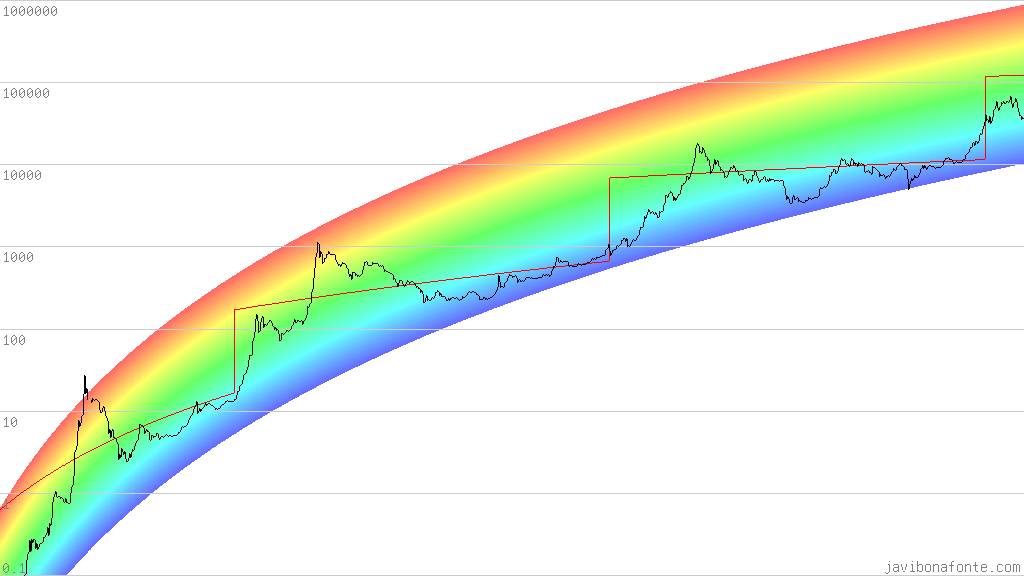
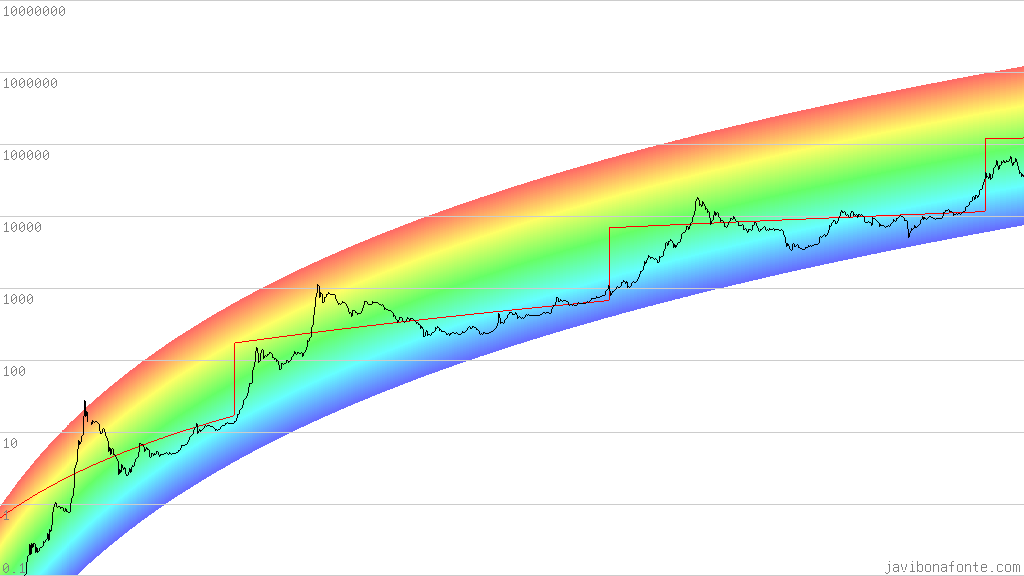
Implemented way to select chart parameters easily

diff --git a/src/btc-charts.c b/src/btc-charts.c
@@ -4,6 +4,8 @@
  * Javi Bonafonte
  *
  * TODO
+ *  - when skipping days of price, paint the average of skipped days
+ *  - separate chart code from csv file code
  *  - use bitcoinity data for stock to flow
  */
 
@@ -28,10 +30,23 @@
 #define DAYS_FROM_GEN 554 // Days from Genesis Block to first day in file
                           // Genesis Block was on 2009-01-09
 
+// Struct with BTC price for a date (represents one row of the CSV file)
 struct row {
     char date[STR_LEN];
     float price;
 };
+
+// Struct with chart configuration parameters
+struct chart_cfg {
+    int w, h; // width and height of chart image
+    int paint_price, paint_trololo, paint_sf_model; // things to paint (0/1)
+    float min_x, max_x, min_y, max_y; // x values and y values to paint
+                                      // x = days, y = price
+    int scale; // scale of the y axis (linear or logarithmic)
+    float axis_step; // step of change between y axis lines
+};
+
+// ------------------------------------------------------------------------
 
 /**
  * Returns number of lines in 'fp'.
@@ -109,6 +124,49 @@ int get_max_price (struct row *rows, int num_rows) {
     return max_price;
 }
 
+// ------------------------------------------------------------------------
+
+/**
+ * Generates and returns the chart configuration.
+ */
+struct chart_cfg get_chart_cfg (int num_days_in_file, int scale,
+        int paint_price, int paint_trololo, int paint_sf_model,
+        int days_to_predict) {
+
+    struct chart_cfg cfg;
+
+    cfg.w = WIDTH;
+    cfg.h = HEIGHT;
+
+    cfg.paint_price = paint_price;
+    cfg.paint_trololo = paint_trololo;
+    cfg.paint_sf_model = paint_sf_model;
+
+    cfg.scale = scale;
+
+    switch (scale) {
+
+        case linear:
+            cfg.min_y = 0;
+            cfg.max_y = 65000;
+            cfg.axis_step = 10000;
+            break;
+
+        case logarithmic:
+            cfg.min_y = 0.1;
+            cfg.max_y = 10000000;
+            cfg.axis_step = 10;
+            break;
+    }
+
+    cfg.min_x = DAYS_FROM_GEN;
+    cfg.max_x = DAYS_FROM_GEN + num_days_in_file + days_to_predict;
+
+    return cfg;
+}
+
+// ------------------------------------------------------------------------
+
 /**
  *
  */
@@ -147,24 +205,24 @@ void paint_function_column (int *img, int x, int j, int prev_j,
 /**
  *
  */
-void paint_trololo (int *img, float min_x, float max_x, float min_y,
-        float max_y, int scale) {
+void paint_trololo (int *img, struct chart_cfg cfg) {
 
-    min_y = apply_scale (scale, min_y);
-    max_y = apply_scale (scale, max_y);
+    cfg.min_y = apply_scale (cfg.scale, cfg.min_y);
+    cfg.max_y = apply_scale (cfg.scale, cfg.max_y);
     int day, j, prev_j;
     float value;
 
 
-    for (int x = 0; x < WIDTH; x++) {
+    for (int x = 0; x < cfg.w; x++) {
 
-        day = (int) x * (max_x - min_x) / WIDTH + min_x;
+        day = (int) x * (cfg.max_x - cfg.min_x) / cfg.w + cfg.min_x;
 
         // y = 10^(2.9065 * ln (days from genesis) - 19.493)
-        value = apply_scale (scale,
+        value = apply_scale (cfg.scale,
                 (float) pow (10, 2.9065 * log (day) - 19.493));
 
-        j = HEIGHT - (int) ((value - min_y) * HEIGHT) / (max_y - min_y);
+        j = cfg.h - (int) ((value - cfg.min_y) * cfg.h)
+            / (cfg.max_y - cfg.min_y);
 
         paint_rainbow_column (img, x, j, 80, 0, 120, 255);
         //paint_function_column (img, x, j, prev_j, 255, 0, 0, 255);
@@ -215,23 +273,23 @@ float get_btc_stock (int days_since_gen) {
 /**
  *
  */
-void paint_sf_model (int *img, int min_x, int max_x, float min_y,
-        float max_y, int scale) {
+void paint_sf_model (int *img, struct chart_cfg cfg) {
 
-    min_y = apply_scale (scale, min_y);
-    max_y = apply_scale (scale, max_y);
+    cfg.min_y = apply_scale (cfg.scale, cfg.min_y);
+    cfg.max_y = apply_scale (cfg.scale, cfg.max_y);
     int day, j, prev_j;
     float stock, reward, sf, model;
 
-    for (int x = 0; x < WIDTH; x++) {
+    for (int x = 0; x < cfg.w; x++) {
 
-        day = (int) x * (max_x - min_x) / WIDTH + min_x;
+        day = (int) x * (cfg.max_x - cfg.min_x) / cfg.w + cfg.min_x;
         stock = get_btc_stock (day);
         reward = get_btc_block_reward (day);
         sf = stock / (reward * 365 * 144);
-        model = apply_scale (scale, exp (-1.84) * pow (sf, 3.36));
+        model = apply_scale (cfg.scale, exp (-1.84) * pow (sf, 3.36));
 
-        j = HEIGHT - (int) ((model - min_y) * HEIGHT) / (max_y - min_y);
+        j = cfg.h - (int) ((model - cfg.min_y) * cfg.h)
+            / (cfg.max_y - cfg.min_y);
 
         paint_function_column (img, x, j, prev_j, 255, 0, 0, 255);
 
@@ -242,22 +300,28 @@ void paint_sf_model (int *img, int min_x, int max_x, float min_y,
 /**
  *
  */
-void paint_price (int *img, struct row *rows, int num_rows, float min,
-        float max, int scale) {
+void paint_price (int *img, struct row *rows, int num_rows,
+        struct chart_cfg cfg) {
 
-    min = apply_scale (scale, min);
-    max = apply_scale (scale, max);
-    int x, j, prev_j;
+    cfg.min_y = apply_scale (cfg.scale, cfg.min_y);
+    cfg.max_y = apply_scale (cfg.scale, cfg.max_y);
+    int row, x, j, prev_j;
     double price;
 
-    for (x = 0; x < WIDTH; x++) {
+    for (x = 0; x < cfg.w; x++) {
 
-        price = apply_scale (scale,
-                rows[x * (int) num_rows / WIDTH].price);
+        row = (int) x * (cfg.max_x - cfg.min_x)
+            / cfg.w+ cfg.min_x - DAYS_FROM_GEN;
+
+        if (row < num_rows)
+            price = apply_scale (cfg.scale, rows[row].price);
+        else
+            price = -1;
 
         if (price != -1) {
 
-            j = HEIGHT - (int) ((price - min) * HEIGHT) / (max - min);
+            j = cfg.h- (int) ((price - cfg.min_y) * cfg.h)
+                / (cfg.max_y - cfg.min_y);
 
             paint_function_column (img, x, j, prev_j, 0, 0, 0, 255);
 
@@ -271,12 +335,12 @@ void paint_price (int *img, struct row *rows, int num_rows, float min,
  *
  * Uses some data for the generation passed as arguments.
  */
-int generate_img (struct row *rows, int num_rows) {
+int generate_img (struct row *rows, int num_rows, struct chart_cfg cfg) {
 
     int code = 0;
 
     // Creates 'img' buffer
-    int *img = create_img (WIDTH, HEIGHT);
+    int *img = create_img (cfg.w, cfg.h);
     if (img == NULL) {
         fprintf (stderr, "Couldn't create image buffer\n");
         return 1;
@@ -284,24 +348,22 @@ int generate_img (struct row *rows, int num_rows) {
 
     // Paints data to 'img' buffer
 
-    paint_img_background (img, WIDTH, HEIGHT, 0, 0, 0, 0);
+    paint_img_background (img, cfg.w, cfg.h, 0, 0, 0, 0);
 
-    /*
-    paint_axis (img, WIDTH, HEIGHT, 0, 65000, linear, 10000,
-            204, 204, 204, 255);
-    paint_price (img, rows, num_rows, 0, 65000, linear);
-    */
+    if (cfg.paint_trololo)
+        paint_trololo (img, cfg);
 
-    paint_trololo (img, DAYS_FROM_GEN, num_rows + DAYS_FROM_GEN,
-            0.1, 1000000, logarithmic);
-    paint_axis (img, WIDTH, HEIGHT, 0.1, 1000000, logarithmic, 10,
-            204, 204, 204, 255);
-    paint_sf_model (img, DAYS_FROM_GEN, num_rows + DAYS_FROM_GEN,
-            0.1, 1000000, logarithmic);
-    paint_price (img, rows, num_rows, 0.1, 1000000, logarithmic);
+    paint_axis (img, cfg.w, cfg.h, cfg.min_y, cfg.max_y, cfg.scale,
+            cfg.axis_step, 204, 204, 204, 255);
+
+    if (cfg.paint_sf_model)
+        paint_sf_model (img, cfg);
+
+    if (cfg.paint_price)
+        paint_price (img, rows, num_rows, cfg);
 
     // Writes 'img' buffer to file
-    code = write_img (img, IMG_PATH, WIDTH, HEIGHT);
+    code = write_img (img, IMG_PATH, cfg.w, cfg.h);
 
     // Frees 'img' buffer
     if (img != NULL)
@@ -313,7 +375,7 @@ int generate_img (struct row *rows, int num_rows) {
 /**
  * Processes image using 'MagickWand' lib (fucntions in 'myimgproc.h').
  */
-int process_img () {
+int process_img (struct chart_cfg cfg) {
 
     int code = 0;
 
@@ -328,22 +390,15 @@ int process_img () {
     if (code != 0)
         goto finalise;
 
-    /*
-    // Paints linear axis
-    code = annotate_axis_values (magick_wand, WIDTH, HEIGHT, 0, 65000,
-            linear, 10000, "rgb(128, 128, 128)");
-    if (code != 0)
-        goto finalise;
-    */
-
-    // Paints log axis
-    code = annotate_axis_values (magick_wand, WIDTH, HEIGHT, 0.1, 1000000,
-            logarithmic, 10, "rgb(128, 128, 128)");
+    // Annotates axis
+    code = annotate_axis_values (magick_wand, cfg.w, cfg.h,
+            cfg.min_y, cfg.max_y, cfg.scale, cfg.axis_step,
+            "rgb(128, 128, 128)");
     if (code != 0)
         goto finalise;
 
     // Annotates watermark
-    code = annotate_watermark (magick_wand, WIDTH, HEIGHT, bottom_right, 4,
+    code = annotate_watermark (magick_wand, cfg.w, cfg.h, bottom_right, 4,
             "javibonafonte.com", "rgb(128, 128, 128)");
     if (code != 0)
         goto finalise;
@@ -361,6 +416,8 @@ finalise:
     
     return code;
 }
+
+// ------------------------------------------------------------------------
 
 /**
  * Main.
@@ -389,13 +446,16 @@ int main (int argc, char *argv[]) {
 
     //float max_price = get_max_price (rows, num_rows);
 
+    struct chart_cfg cfg = get_chart_cfg (num_rows,
+            logarithmic, 1, 1, 1, 0);
+
     // Generates image
-    code = generate_img (rows, num_rows);
+    code = generate_img (rows, num_rows, cfg);
     if (code != 0)
         goto finalise;
 
     // Processes image
-    code = process_img ();
+    code = process_img (cfg);
     if (code != 0)
         goto finalise;
 
